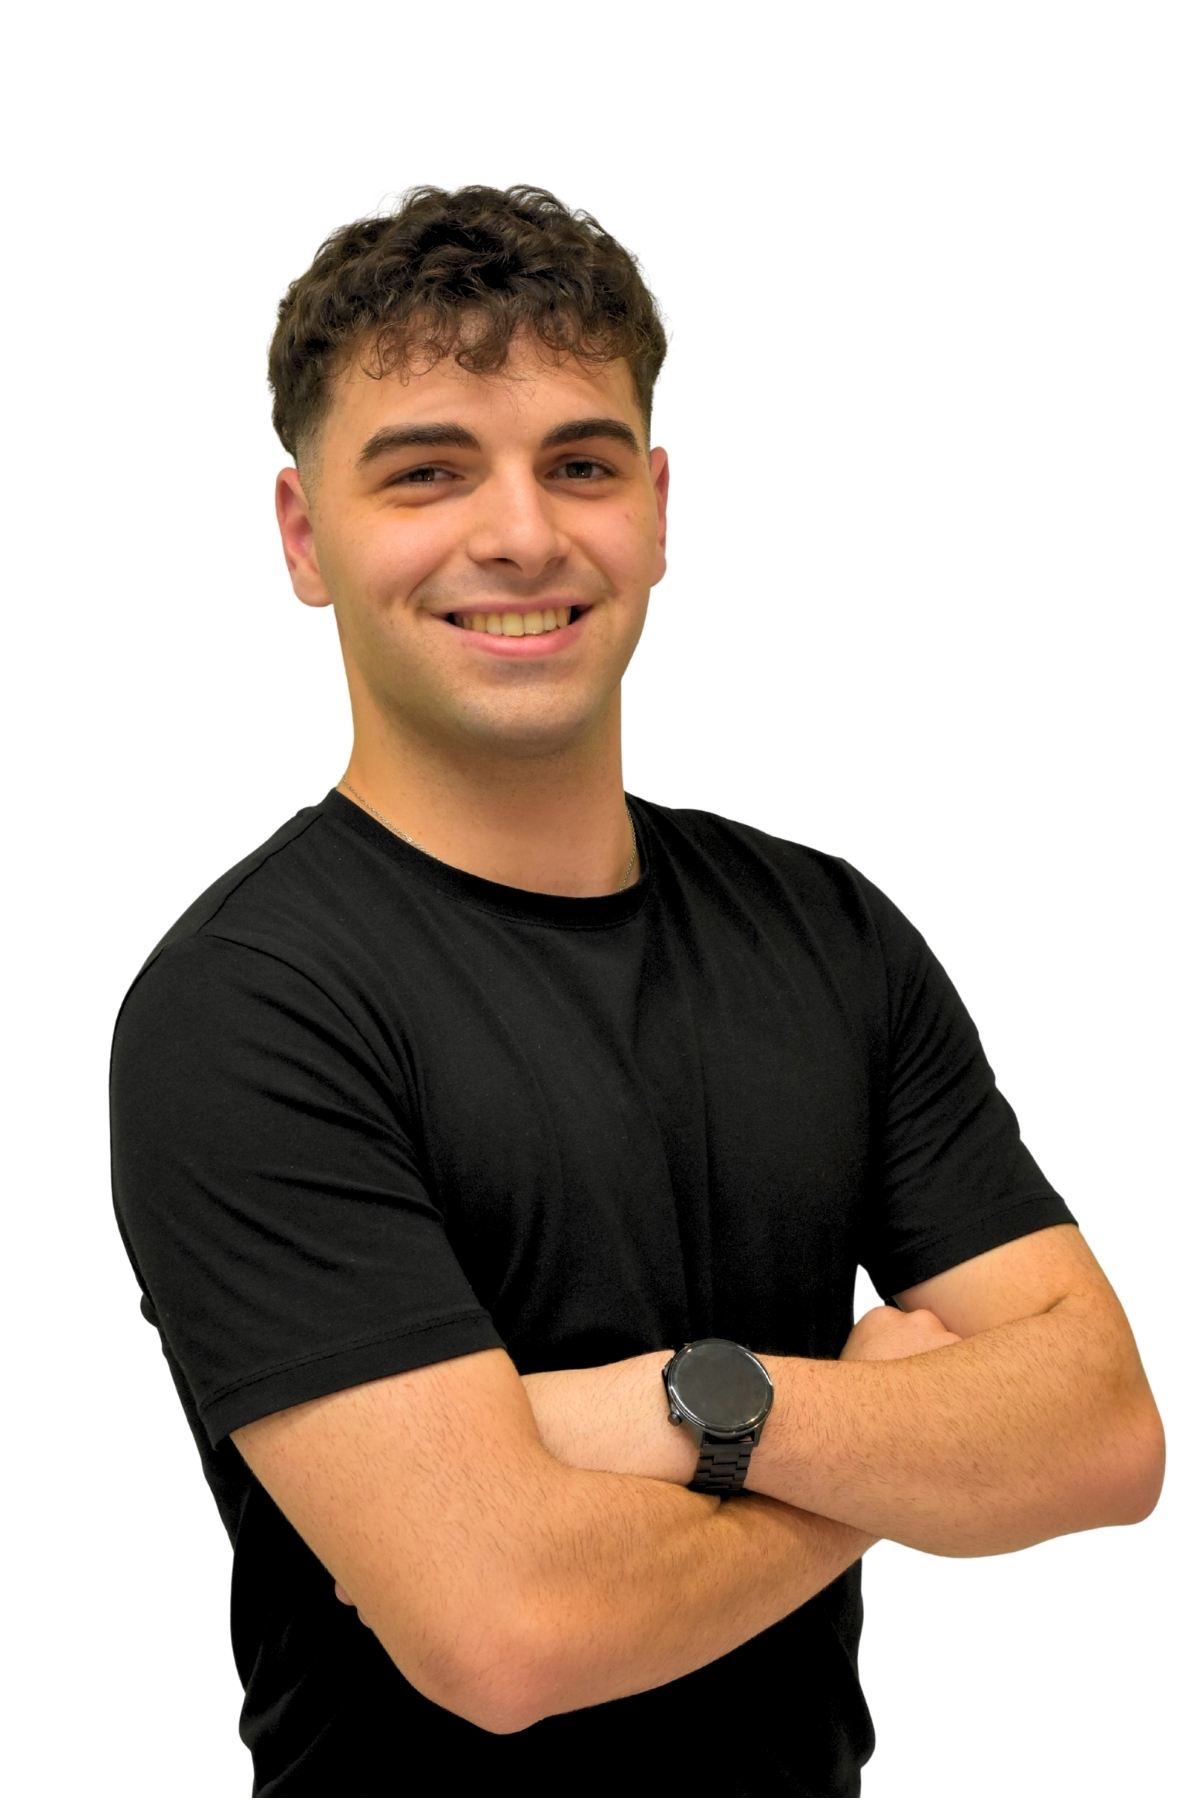
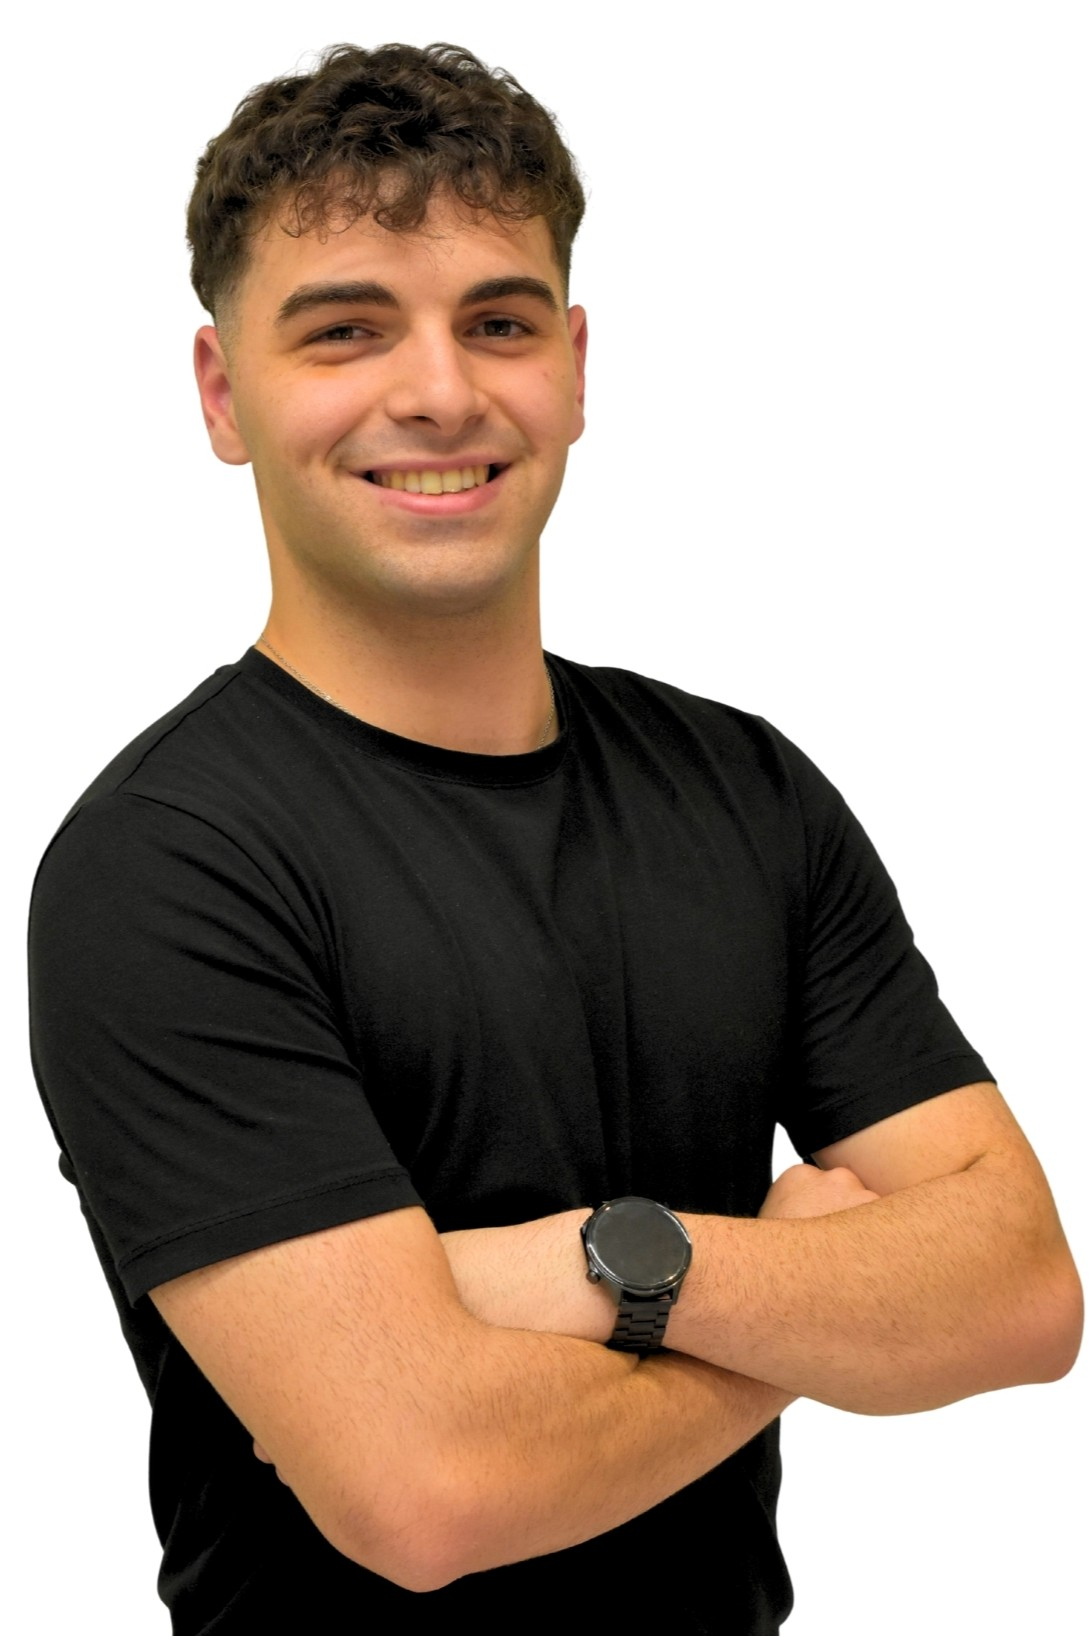
about me terminado

diff --git a/src/components/AboutMe.jsx b/src/components/AboutMe.jsx
@@ -3,39 +3,82 @@ import React from "react";
 const AboutMe = () => {
     return (
         <>
-            <section id="about_me" className="min-vh-100 py-5">
-                <div className="container h-100 d-flex flex-column justify-content-center">
-                    <h2 className="text-center mb-5 fs-1">Sobre mí.</h2>
-                    <div className="row align-items-center g-4 pt-5 flex-grow-1">
-                        <div className="col-12 col-md-5 text-center mb-4 mb-md-0">
-                            <img
-                                src="/portfolio/assets/img/foto_about_me.jpg"
-                                alt="mi_foto"
-                                className="img-fluid m-auto border rounded"
-                                style={{ maxHeight: "500px" }}
-                            />
+            <section id="about_me" className="pb-5 min-vh-100 d-flex align-items-center">
+                <div className="container">
+                    <h2 className="text-center mb-5 fs-1 fw-bold">
+                        Sobre mí<span style={{ color: "#42d3c4" }}>.</span>
+                    </h2>
+                    <div className="row align-items-center g-5">
+                        <div className="col-12 col-lg-5 text-center">
+                            <div className="position-relative d-inline-block">
+                                <img
+                                    src="/portfolio/assets/img/foto_about_me.jpg"
+                                    alt="mi_foto"
+                                    className="img-fluid border rounded shadow-lg about-me-img"
+                                    style={{ borderColor: "#42d3c4" }}
+                                />
+                            </div>
                         </div>
 
-                        <div className="col-12 col-md-7 fs-4 p-3 p-md-0 text-center text-md-start">
-                            <p>
-                                Soy un Desarrollador Junior especializado tanto en desarrollo web como en aplicaciones
-                                multiplataforma.
+                        <div className="col-12 col-lg-7 fs-5 text-center text-lg-start">
+                            <p className="mb-4">
+                                Soy un{" "}
+                                <span style={{ color: "#42d3c4", fontWeight: "bold" }}>
+                                    Desarrollador Fullstack Junior
+                                </span>{" "}
+                                con doble enfoque en
+                                <span className="text-light fw-semibold"> aplicaciones multiplataforma</span> y
+                                <span className="text-light fw-semibold"> desarrollo web</span>.
                             </p>
-                            <p>
-                                Actualmente, mi objetivo es seguir desenvolviéndome en el desarrollo web para dar un
-                                salto en mi carrera laboral.
+                            <p className="mb-4">
+                                Mi formación como Técnico Superior{" "}
+                                <span className="text-light fw-semibold"> (DAM)</span> y mi paso por el bootcamp de
+                                <span className="text-light fw-semibold"> Neoland</span> me han permitido dominar el
+                                stack <span className="text-light fw-semibold"> MERN</span> y arquitecturas de
+                                <span className="text-light fw-semibold"> microservicios</span>.
                             </p>
-                            <p>
-                                Gracias a mi titulación como Tecnico Superior en Desarrollo de Aplicaciones
-                                Multiplataforma y mi titulación en el bootcamp de Desarrollador Web Fullstack de
-                                Neoland, tengo sólidos conocimientos en HTML, CSS, JavaScript, Bootstrap, Angular, entre
-                                otras.
+                            <p className="mb-4">
+                                Actualmente, estoy expandiendo mi perfil hacia la Inteligencia Artificial aplicada
+                                <span className="text-light fw-semibold"> (Azure AI)</span> y la gestión ágil de
+                                proyectos{" "}
+                                <span className="text-light fw-semibold">
+                                    (PMI Project Management Ready™ Certification)
+                                </span>
+                                . Me apasiona escribir código limpio, documentado y escalable que aporte soluciones
+                                reales y eficientes a los demás.
                             </p>
+                            <p className="mb-4">
+                                Este es el<span className="text-light fw-semibold"> stack tecnológico</span> con el que
+                                trabajo:
+                            </p>
+                            <ul className="list-inline mt-3">
+                                {[
+                                    "HTML/CSS",
+                                    "JavaScript",
+                                    "Bootstrap",
+                                    "React",
+                                    "Angular",
+                                    "Node.js",
+                                    "Kotlin",
+                                    "Flutter",
+                                    "Java",
+                                    "MongoDB",
+                                    "SQL Server",
+                                    "Git",
+                                ].map((tech, index) => (
+                                    <li
+                                        key={index}
+                                        className="list-inline-item badge bg-dark border border-secondary text-light p-2 me-2 mb-2 fw-normal"
+                                    >
+                                        {tech}
+                                    </li>
+                                ))}
+                            </ul>
                         </div>
                     </div>
                 </div>
             </section>
-            <hr className="mb-5" />
+            <hr className="mb-3" />
         </>
     );
 };

diff --git a/src/index.css b/src/index.css
@@ -5,6 +5,10 @@
     color-scheme: light dark;
 }
 
+html {
+    scroll-padding-top: 100px;
+}
+
 body {
     margin: 0;
     min-width: 320px;
@@ -71,7 +75,7 @@ body {
 
 .navbar-item-hover a {
     padding: 15px 50px !important;
-    border-radius: 50px;
+    border-radius: 5px;
 }
 
 .navbar-item-hover a:hover {
@@ -178,4 +182,23 @@ body {
     visibility: visible;
     opacity: 1;
     transform: translateX(-50%) translateY(0);
+}
+
+/* Responsive About Me Image */
+.about-me-img {
+    max-height: 300px;
+    width: auto;
+    object-fit: cover;
+}
+
+@media (min-width: 768px) {
+    .about-me-img {
+        max-height: 400px;
+    }
+}
+
+@media (min-width: 992px) {
+    .about-me-img {
+        max-height: 500px;
+    }
 }

diff --git a/src/components/Hero.jsx b/src/components/Hero.jsx
@@ -6,7 +6,7 @@ import TechIcon from "./TechIcon";
 
 const Hero = () => {
     return (
-        <section id="presentacion" className="pb-4 d-flex flex-column" style={{ minHeight: "calc(100vh - 90px)" }}>
+        <section id="presentacion" className=" d-flex flex-column" style={{ minHeight: "calc(100vh - 90px)" }}>
             <div className="container h-100 d-flex flex-column justify-content-center flex-grow-1">
                 <div className="row align-items-center justify-content-center flex-grow-1 pt-3 mt-3 pt-lg-5 mt-lg-5 gap-3 gap-lg-5">
                     <div className="col-12 col-lg-5 text-center">

diff --git a/src/components/TechStack.jsx b/src/components/TechStack.jsx
@@ -5,7 +5,7 @@ const TechStack = () => {
         <section id="herramientas">
             <div className="">
                 <hr />
-                <div className="d-flex flex-wrap justify-content-between align-items-center gap-3 mx-3 my-3 herramientas_lista">
+                <div className="d-flex flex-wrap justify-content-between align-items-center gap-3 mx-3  herramientas_lista">
                     <p className="m-0 imagen_aumenta">JAVA</p>
                     <p className="m-0">/</p>
                     <p className="m-0 imagen_aumenta">HTML-5</p>

diff --git a/src/components/Navbar.jsx b/src/components/Navbar.jsx
@@ -82,7 +82,7 @@ const Navbar = () => {
                 </button>
 
                 <div className="collapse navbar-collapse" id="navbarSupportedContent">
-                    <ul className="navbar-nav ms-auto border rounded-pill fondo_claro align-items-center">
+                    <ul className="navbar-nav ms-auto border rounded fondo_claro align-items-center">
                         <li className="nav-item navbar-item-hover">
                             <a
                                 className={getLinkClass("home")}
